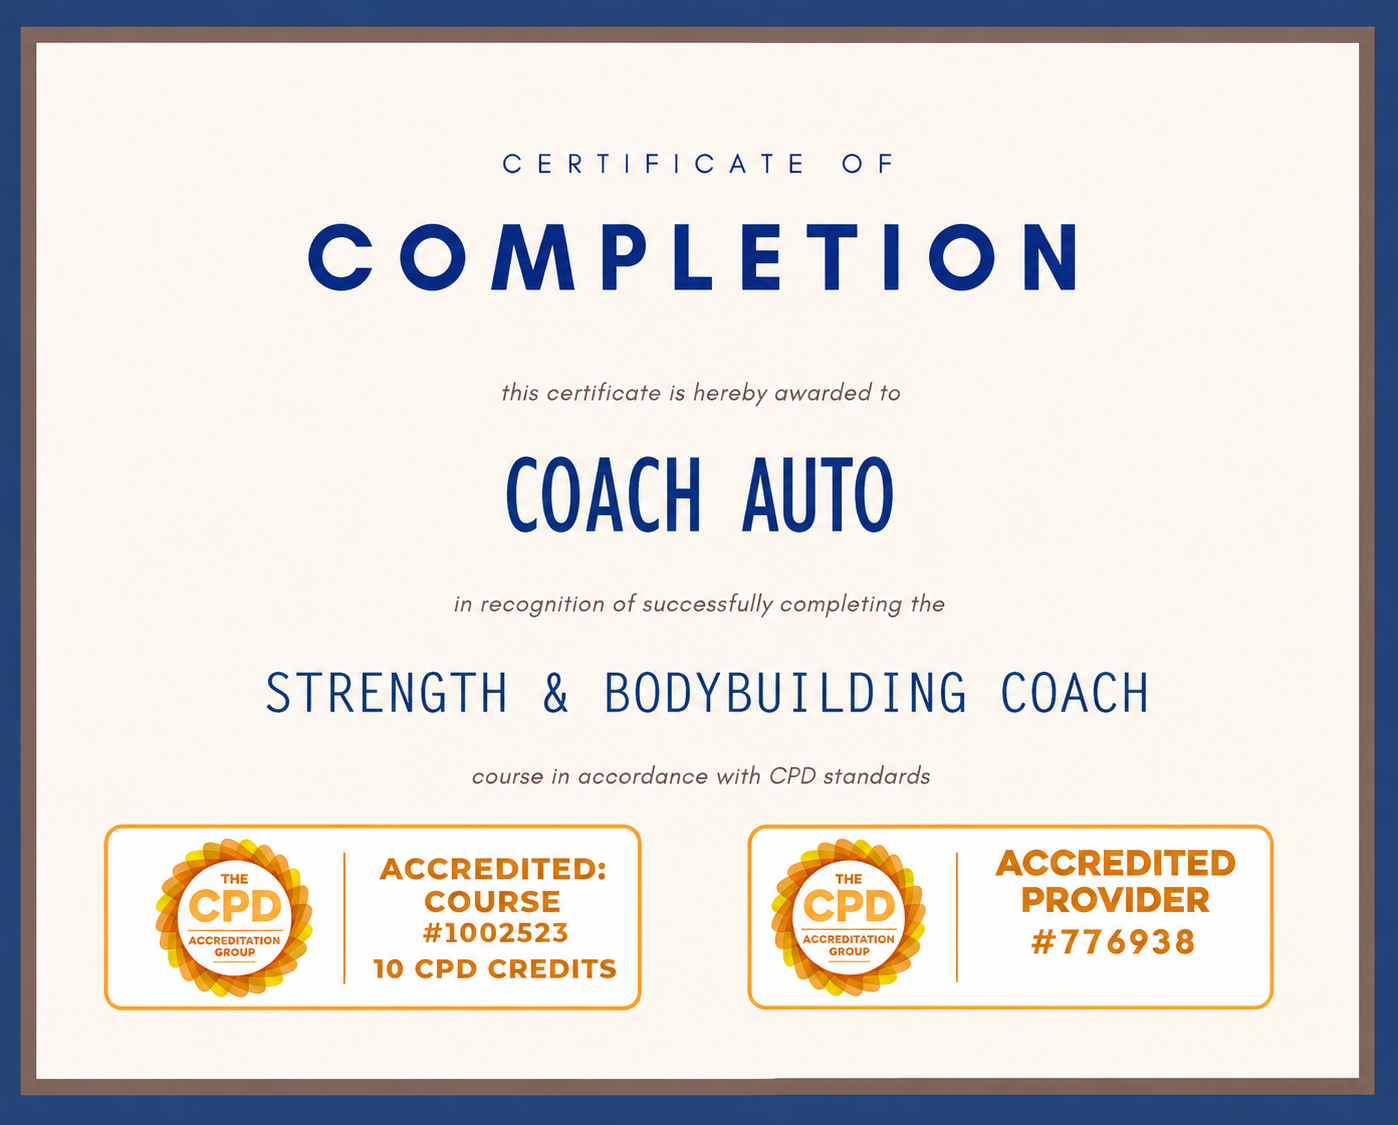
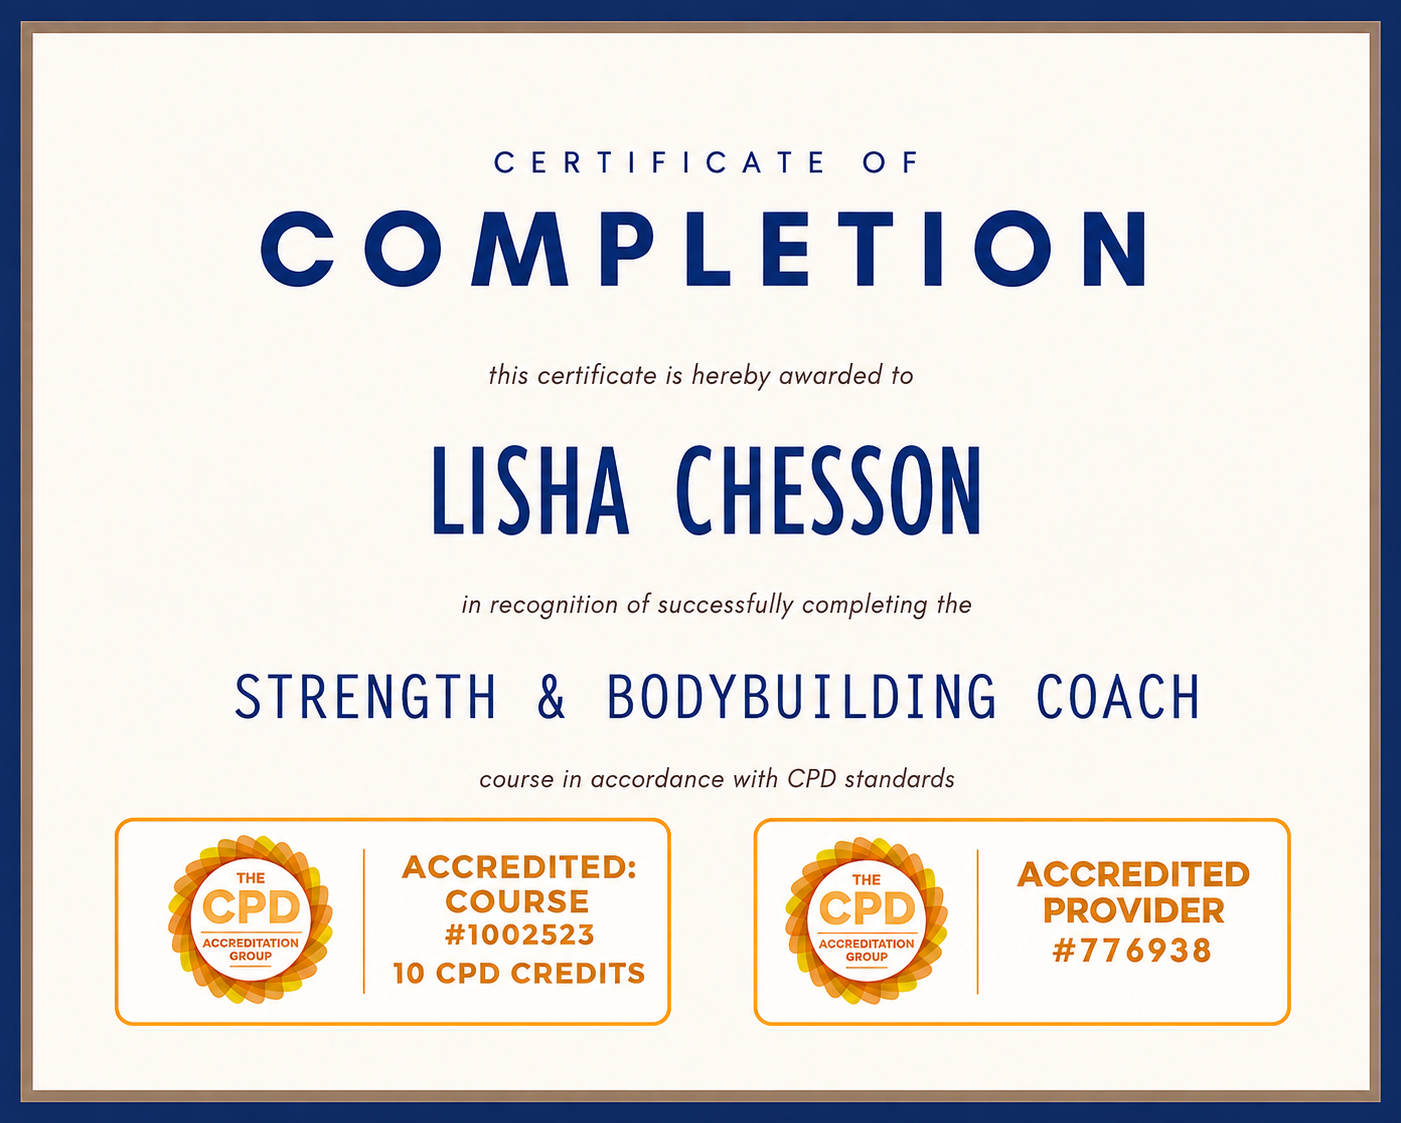
95% ...

diff --git a/src/pages/public/AboutPage.jsx b/src/pages/public/AboutPage.jsx
@@ -94,7 +94,7 @@ export default function AboutPage() {
               aria-hidden="true"
             />
 
-            <figure className="relative aspect-992/775 overflow-hidden border border-ink-600 shadow-2xl shadow-black/60">
+            <figure className="relative aspect-970/775 overflow-hidden border border-ink-600 shadow-2xl shadow-black/60">
               <img
                 src="/images/Certification.png"
                 alt="Coach Auto Strength & Bodybuilding Coach CPD Accredited Certificate"
